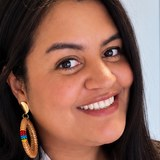
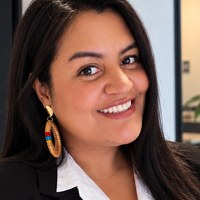
Move About portrait above the title; larger nav photo showing more of the portrait
Claude-Session: https://claude.ai/code/session_018hZVBuhKbq335j5skqMLMj

diff --git a/index.html b/index.html
@@ -646,11 +646,14 @@ body.in-case .sn-lang{order:3}
 .contact-center h2>span>span{background:var(--accent-gradient);-webkit-background-clip:text;background-clip:text;color:transparent}
 #to-top{background:var(--accent-gradient);color:var(--ink);box-shadow:0 0 0 3px rgba(255,255,255,.85),0 10px 30px rgba(32,43,43,.28)}#to-top:hover{background:var(--accent-gradient);transform:translateY(-3px)}
 .pillar-icon svg{width:24px;height:24px;stroke-width:1.7}
+.about-photo{margin:0 0 30px}
+.sn-brand .mark-photo{width:40px;height:40px;object-position:center 35%}
+@media(max-width:760px){.sn-brand .mark-photo{width:36px;height:36px}}
 </style>
 </head>
 <body data-lang="en"><div id="scroll-progress" aria-hidden="true"></div><button type="button" id="to-top" aria-label="Volver arriba / Back to top" hidden><svg viewBox="0 0 24 24" aria-hidden="true"><path d="M12 19V5M5.5 11.5 12 5l6.5 6.5"/></svg></button>
 <header id="site-nav" class="site-nav"><div class="sn-inner">
-<a class="wordmark sn-brand" href="#top" data-nav="top" aria-label="Uldis Kriss Gómez R."><img class="mark mark-photo" src="assets/uldis-avatar.jpg" width="28" height="28" alt=""><span class="sn-name">ULDIS KRISS GÓMEZ R.</span></a>
+<a class="wordmark sn-brand" href="#top" data-nav="top" aria-label="Uldis Kriss Gómez R."><img class="mark mark-photo" src="assets/uldis-avatar.jpg" width="40" height="40" alt=""><span class="sn-name">ULDIS KRISS GÓMEZ R.</span></a>
 <nav class="sn-links" aria-label="Main"><a href="#work" data-nav="work"><span class="en">Work</span><span class="es">Proyectos</span></a><a href="#about" data-nav="about"><span class="en">About</span><span class="es">Sobre mí</span></a><a href="#contact" data-nav="contact"><span class="en">Contact</span><span class="es">Contacto</span></a></nav>
 <div class="sn-right"><button type="button" class="sn-back" data-back-home>← <span class="en">All projects</span><span class="es">Todos los proyectos</span></button>
 <div class="sn-lang" role="group" aria-label="Language / Idioma"><button type="button" data-set-lang="en" aria-pressed="true" lang="en" aria-label="English">EN</button><button type="button" data-set-lang="es" aria-pressed="false" lang="es" aria-label="Español">ES</button></div></div>
@@ -670,7 +673,7 @@ body.in-case .sn-lang{order:3}
 <article class="project reveal"><a href="https://www.behance.net/gallery/169605543/Expo-Guajira-2015" target="_blank" rel="noreferrer" aria-label="View Expo Guajira 2015 on Behance"><div class="project-visual v8"><span class="visual-index">08</span><span class="visual-type">Brand / Culture</span><div class="ui-window"><div class="windowbar"><i></i><i></i><i></i></div><div class="window-content"><div class="window-kicker">CULTURE / COMMUNITY / PLACE</div><div class="window-title">A place with<br><em>a story to tell.</em></div><span class="window-cta">EXPLORE THE EVENT ↗</span><div class="ui-lines"><span></span><span></span><span></span></div></div></div></div><div class="project-meta"><div><h3 class="project-title">Expo Guajira 2015</h3><div class="project-category">Visual communication · Event</div></div><span class="project-open">↗</span></div></a><p class="case-note"><span class="en">A visual communication project rooted in event identity and cultural context.</span><span class="es">Un proyecto de comunicación visual conectado con la identidad de un evento y su contexto cultural.</span></p></article>
 </div></section></div>
 <section class="approach"><div class="wrap approach-grid reveal"><div><div class="micro">02 / <span class="en">How I think</span><span class="es">Cómo pienso</span></div><h2><span class="en">Good design<br>moves things<br>forward.</span><span class="es">El buen diseño<br>hace avanzar<br>las cosas.</span></h2></div><div><p class="approach-intro"><span class="en">The best digital experiences feel simple because someone has done the hard thinking. I bring structure to ambiguity, curiosity to discovery and craft to the details — always connecting the user experience to the bigger picture.</span><span class="es">Las mejores experiencias digitales se sienten simples porque alguien hizo el trabajo difícil de pensar. Aporto estructura a la ambigüedad, curiosidad al descubrimiento y cuidado por los detalles, conectando la experiencia de usuario con la visión global del producto.</span></p><div class="pillars"><div class="pillar"><span class="pillar-icon"><svg viewBox="0 0 24 24" aria-hidden="true"><circle cx="10.5" cy="10.5" r="6.5"/><path d="m15.5 15.5 5 5"/><path d="M10.5 7.5v6M7.5 10.5h6" opacity=".55"/></svg></span><b><span class="en">01 / Understand</span><span class="es">01 / Comprender</span></b><p><span class="en">Find the real problem before shaping the solution.</span><span class="es">Encontrar el problema real antes de definir la solución.</span></p></div><div class="pillar"><span class="pillar-icon"><svg viewBox="0 0 24 24" aria-hidden="true"><path d="M3 6c4 0 4 6 9 6s5-6 9-6"/><path d="M3 18c4 0 4-6 9-6"/><path d="M12 12h9"/><path d="m18 9 3 3-3 3"/></svg></span><b><span class="en">02 / Simplify</span><span class="es">02 / Simplificar</span></b><p><span class="en">Make complex journeys clear and intuitive.</span><span class="es">Hacer que recorridos complejos sean claros e intuitivos.</span></p></div><div class="pillar"><span class="pillar-icon"><svg viewBox="0 0 24 24" aria-hidden="true"><path d="M5 19c0-3 1-5 3-6"/><path d="M8 13 15 6c2-2 4-2.5 5-2.5 0 1-.5 3-2.5 5L11 16z"/><path d="M8 13H5l3-4h4M11 16v3l4-3v-4"/><circle cx="15.5" cy="8.5" r="1.2"/></svg></span><b><span class="en">03 / Deliver</span><span class="es">03 / Entregar</span></b><p><span class="en">Design with craft, collaboration and outcomes in mind.</span><span class="es">Diseñar con detalle, colaboración y resultados en mente.</span></p></div></div></div></div></section>
-<div class="wrap"><section class="about" id="about"><div class="about-grid"><div class="reveal"><div class="micro">03 / <span class="en">The person behind the pixels</span><span class="es">La persona detrás del diseño</span></div><h2><span class="en">Thoughtful by nature.<br>Strategic by design.</span><span class="es">Curiosa por naturaleza.<br>Estratégica al diseñar.</span></h2><figure class="about-photo"><img src="assets/uldis-portrait.jpg" width="640" height="640" loading="lazy" alt="Uldis Kriss Gómez R."></figure></div><div class="reveal"><p class="about-copy"><span class="en">I’m Uldis Kriss Gómez R., a Senior UX/UI Designer with 8+ years of experience in e-commerce and retail digital products, and a Master’s degree in User Experience Design. I combine strategy and execution to design experiences and content that are simple and easy to use — from research and information architecture to UI, interface copy and design systems.</span><span class="es">Soy Uldis Kriss Gómez R., diseñadora Senior UX/UI con más de 8 años de experiencia en productos digitales de comercio electrónico y retail, y magíster en Diseño de Experiencia de Usuario. Combino estrategia y ejecución para diseñar experiencias y contenidos simples y fáciles de usar, desde la investigación y la arquitectura de información hasta la interfaz, los textos de interfaz y los sistemas de diseño.</span></p><p class="about-copy"><span class="en">I have strong communication skills in Spanish, English and French, and I’m comfortable presenting and defending design proposals to stakeholders across technology, finance and business.</span><span class="es">Tengo buenas habilidades de comunicación en español, inglés y francés, y me siento cómoda presentando y sustentando propuestas de diseño ante stakeholders de tecnología, finanzas y negocio.</span></p><div class="skills"><span>Product Design</span><span>UX Research</span><span>Information Architecture</span><span>UI Design</span><span>UX Writing</span><span>Microcopy</span><span>Content Design</span><span>Conversational Design</span><span>Design Systems</span><span>Prototyping</span><span>Usability Testing</span><span>Stakeholder Management</span><span>E-commerce</span><span>Agile / Lean UX</span><span>Figma</span><span>Maze</span><span>UserTesting.com</span><span>Adobe Creative Suite</span></div><dl class="about-facts"><div><dt><span class="en">Experience</span><span class="es">Experiencia</span></dt><dd><b>2026 – <span class="en">Present</span><span class="es">Actualidad</span></b> · <span class="en">Content Marketing &amp; Digital Designer</span><span class="es">Content Marketing y Diseñadora Digital</span>, Keca International, Montreal</dd><dd><b>2018 – 2026</b> · <span class="en">Senior UX/UI Designer</span><span class="es">Diseñadora Senior UX/UI</span>, Sodimac Homecenter, Colombia</dd><dd><b>2014 – 2017</b> · <span class="en">Web &amp; graphic design — Audiomúsica, Madaura Hotel, UNDP Colombia</span><span class="es">Diseño web y gráfico — Audiomúsica, Madaura Hotel, PNUD Colombia</span></dd></div><div><dt><span class="en">Education</span><span class="es">Formación</span></dt><dd><b>2019 – 2021</b> · <span class="en">Master’s in User Experience Design, UNIR (Spain)</span><span class="es">Maestría en Diseño de Experiencia de Usuario, UNIR (España)</span></dd><dd><b>2009 – 2014</b> · <span class="en">Advertising with a design emphasis, Universidad Central</span><span class="es">Publicidad con énfasis en diseño, Universidad Central</span></dd><dd><b>Platzi</b> · <span class="en">UX Process Management (2022) · AI for Product Discovery and Design (2025)</span><span class="es">Gestión de Procesos UX (2022) · IA para Product Discovery y Diseño (2025)</span></dd></div></dl></div></div></section></div>
+<div class="wrap"><section class="about" id="about"><div class="about-grid"><div class="reveal"><figure class="about-photo"><img src="assets/uldis-portrait.jpg" width="640" height="640" loading="lazy" alt="Uldis Kriss Gómez R."></figure><div class="micro">03 / <span class="en">The person behind the pixels</span><span class="es">La persona detrás del diseño</span></div><h2><span class="en">Thoughtful by nature.<br>Strategic by design.</span><span class="es">Curiosa por naturaleza.<br>Estratégica al diseñar.</span></h2></div><div class="reveal"><p class="about-copy"><span class="en">I’m Uldis Kriss Gómez R., a Senior UX/UI Designer with 8+ years of experience in e-commerce and retail digital products, and a Master’s degree in User Experience Design. I combine strategy and execution to design experiences and content that are simple and easy to use — from research and information architecture to UI, interface copy and design systems.</span><span class="es">Soy Uldis Kriss Gómez R., diseñadora Senior UX/UI con más de 8 años de experiencia en productos digitales de comercio electrónico y retail, y magíster en Diseño de Experiencia de Usuario. Combino estrategia y ejecución para diseñar experiencias y contenidos simples y fáciles de usar, desde la investigación y la arquitectura de información hasta la interfaz, los textos de interfaz y los sistemas de diseño.</span></p><p class="about-copy"><span class="en">I have strong communication skills in Spanish, English and French, and I’m comfortable presenting and defending design proposals to stakeholders across technology, finance and business.</span><span class="es">Tengo buenas habilidades de comunicación en español, inglés y francés, y me siento cómoda presentando y sustentando propuestas de diseño ante stakeholders de tecnología, finanzas y negocio.</span></p><div class="skills"><span>Product Design</span><span>UX Research</span><span>Information Architecture</span><span>UI Design</span><span>UX Writing</span><span>Microcopy</span><span>Content Design</span><span>Conversational Design</span><span>Design Systems</span><span>Prototyping</span><span>Usability Testing</span><span>Stakeholder Management</span><span>E-commerce</span><span>Agile / Lean UX</span><span>Figma</span><span>Maze</span><span>UserTesting.com</span><span>Adobe Creative Suite</span></div><dl class="about-facts"><div><dt><span class="en">Experience</span><span class="es">Experiencia</span></dt><dd><b>2026 – <span class="en">Present</span><span class="es">Actualidad</span></b> · <span class="en">Content Marketing &amp; Digital Designer</span><span class="es">Content Marketing y Diseñadora Digital</span>, Keca International, Montreal</dd><dd><b>2018 – 2026</b> · <span class="en">Senior UX/UI Designer</span><span class="es">Diseñadora Senior UX/UI</span>, Sodimac Homecenter, Colombia</dd><dd><b>2014 – 2017</b> · <span class="en">Web &amp; graphic design — Audiomúsica, Madaura Hotel, UNDP Colombia</span><span class="es">Diseño web y gráfico — Audiomúsica, Madaura Hotel, PNUD Colombia</span></dd></div><div><dt><span class="en">Education</span><span class="es">Formación</span></dt><dd><b>2019 – 2021</b> · <span class="en">Master’s in User Experience Design, UNIR (Spain)</span><span class="es">Maestría en Diseño de Experiencia de Usuario, UNIR (España)</span></dd><dd><b>2009 – 2014</b> · <span class="en">Advertising with a design emphasis, Universidad Central</span><span class="es">Publicidad con énfasis en diseño, Universidad Central</span></dd><dd><b>Platzi</b> · <span class="en">UX Process Management (2022) · AI for Product Discovery and Design (2025)</span><span class="es">Gestión de Procesos UX (2022) · IA para Product Discovery y Diseño (2025)</span></dd></div></dl></div></div></section></div>
 <section class="contact" id="contact"><div class="wrap"><div class="contact-top contact-center"><div class="micro">04 / <span class="en">Let’s have a conversation</span><span class="es">Tengamos una conversación</span></div><h2><span class="en">Let’s make something<br>that <span>connects with others.</span></span><span class="es">Hagamos algo que<br><span>conecte con otros.</span></span></h2><p class="contact-lead"><span class="en">If you’re looking for a Senior UX/UI or Product Designer who brings clarity, curiosity and care to the work, I’d love to hear from you.</span><span class="es">Si buscas una diseñadora Senior UX/UI o de producto que aporte claridad, curiosidad y cuidado al trabajo, me encantará conversar.</span></p><div class="contact-links"><a class="button" href="mailto:uldiskriss006@gmail.com"><span class="btn-icon"><svg viewBox="0 0 24 24" aria-hidden="true"><rect x="3" y="5" width="18" height="14" rx="2.5"/><path d="m4 7 8 6 8-6"/></svg></span><span class="en">Email me</span><span class="es">Escríbeme</span></a><a class="button ghost" href="https://www.linkedin.com/in/uldiskriss" target="_blank" rel="noreferrer"><span class="btn-icon"><svg viewBox="0 0 24 24" aria-hidden="true"><rect x="3" y="3" width="18" height="18" rx="4"/><path d="M8 10.5V16M8 7.6v.1M11.5 16v-5.5M11.5 13c0-1.7 1-2.6 2.3-2.6s2.2.9 2.2 2.6V16"/></svg></span>LinkedIn</a><a class="button ghost" href="https://www.behance.net/uldisgomez" target="_blank" rel="noreferrer"><span class="btn-icon"><svg viewBox="0 0 24 24" aria-hidden="true"><path d="M3 6.5h4.2a2.6 2.6 0 0 1 0 5.2H3zM3 11.7h4.8a2.9 2.9 0 0 1 0 5.8H3zM3 6.5v11"/><path d="M14 13.6h7a3.5 3.5 0 1 0-1 2.6"/><path d="M15 7.5h5"/></svg></span>Behance</a></div><p class="contact-email">uldiskriss006@gmail.com</p></div><footer class="footer"><span>© <span id="year"></span> Uldis Kriss Gómez R.</span><span>Designed with intention. Built for people.</span><span><a href="https://www.linkedin.com/in/uldiskriss" target="_blank" rel="noreferrer">LinkedIn ↗</a> &nbsp; <a href="https://www.behance.net/uldisgomez" target="_blank" rel="noreferrer">Behance ↗</a></span></footer></div></section>
 </div><div id="case-shell" hidden><div class="case-page credicrea-case" id="credicrea-case-content" data-lang="en" hidden>
     <iframe class="asistente-case-frame credicrea-case-frame" src="pages/credicrea-case.html" title="Caso de estudio Credicrea" loading="lazy"></iframe>
